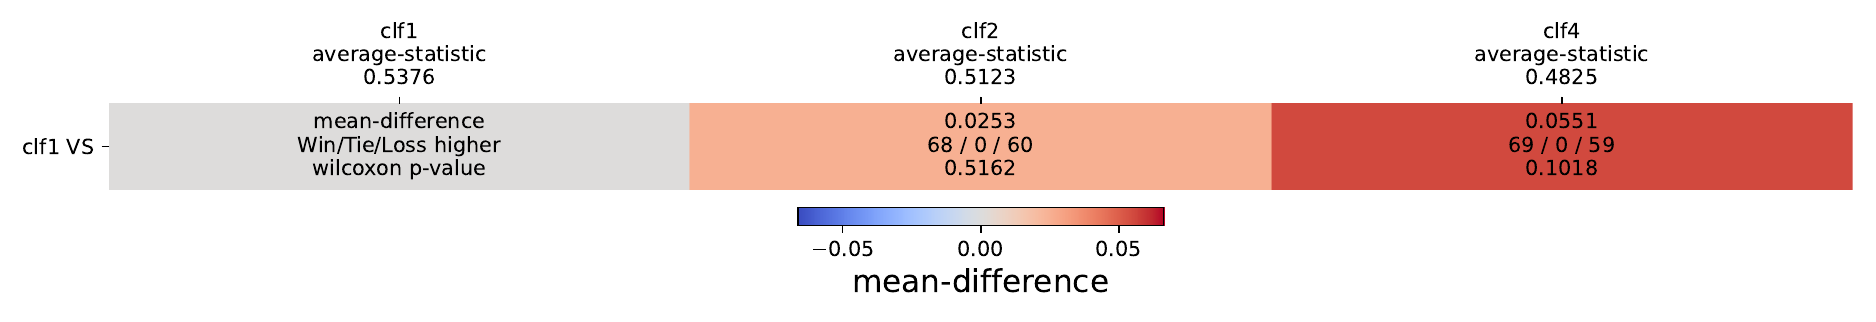
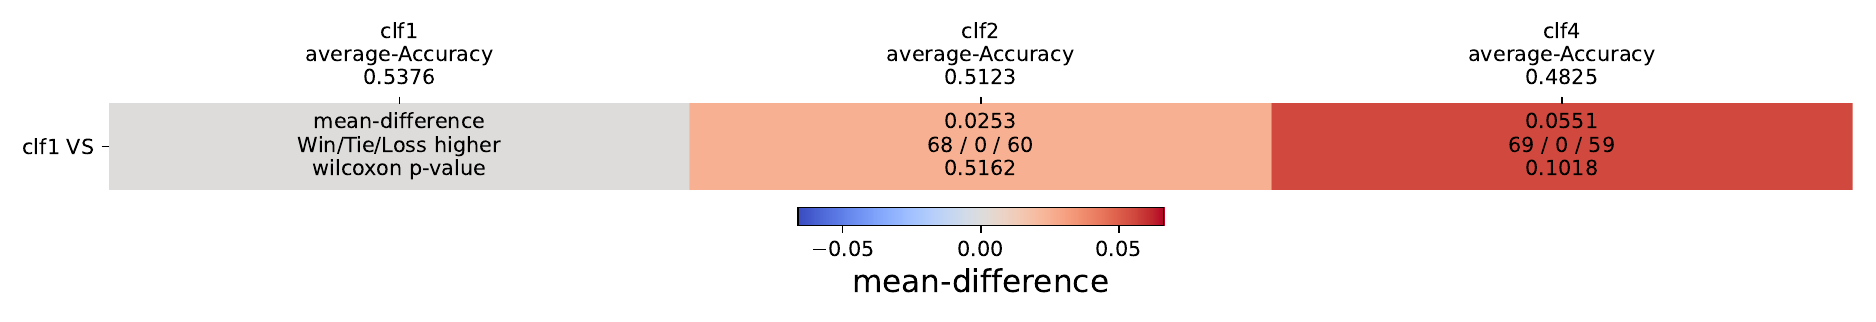
[BUG] fixed ordering stats when average stats in heatline and updated examples

Changed region(s): [[0.7729, 0.1242, 0.8966, 0.2174], [0.4638, 0.1242, 0.5874, 0.2174], [0.1546, 0.1242, 0.2783, 0.2174]]

diff --git a/MCM/utils.py b/MCM/utils.py
@@ -284,12 +284,17 @@ def get_ticks_heatline(analysis, proposed_method):
     xticks = []
     yticks = []
 
+    if analysis['order-stats'] == 'average-statistic':
+        ordering = 'average-'+analysis['used-statistics']
+    else:
+        ordering = analysis['order-stats']
+
     for i in range(analysis['n-classifiers']):
 
         if analysis['ordered-classifier-names'][i] == proposed_method:
             yticks.append(proposed_method + ' VS')
         
-        xticks.append(analysis['ordered-classifier-names'][i] + '\n' + analysis['order-stats'] + '\n' + str(round(analysis['ordered-stats'][i], 4)))
+        xticks.append(analysis['ordered-classifier-names'][i] + '\n' + ordering + '\n' + str(round(analysis['ordered-stats'][i], 4)))
         
     return xticks, yticks
 
